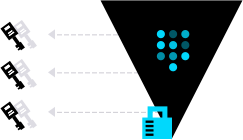
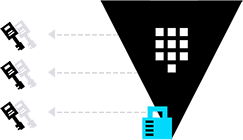
Mrktfix (#4411)
* Updated hero with current logo

* Updated logos in these artifact images as well

* Added Branded Logo

with HashiCorp

* Updated logo with branded logo

(HashiCorp in the name)

* typo

* Wrong spot

* Updated logo

diff --git a/README.md b/README.md
@@ -11,7 +11,7 @@
 -	Announcement list: [Google Groups](https://groups.google.com/group/hashicorp-announce)
 -	Discussion list: [Google Groups](https://groups.google.com/group/vault-tool)
 
-<img width="300" alt="Vault Logo" src="https://cloud.githubusercontent.com/assets/416727/24112835/03b57de4-0d58-11e7-81f5-9056cac5b427.png">
+<img width="300" alt="Vault Logo" src="https://github.com/hashicorp/vault/blob/f22d202cde2018f9455dec755118a9b84586e082/Vault_PrimaryLogo_Black.png">
 
 Vault is a tool for securely accessing secrets. A secret is anything that you want to tightly control access to, such as API keys, passwords, certificates, and more. Vault provides a unified interface to any secret, while providing tight access control and recording a detailed audit log.
 
